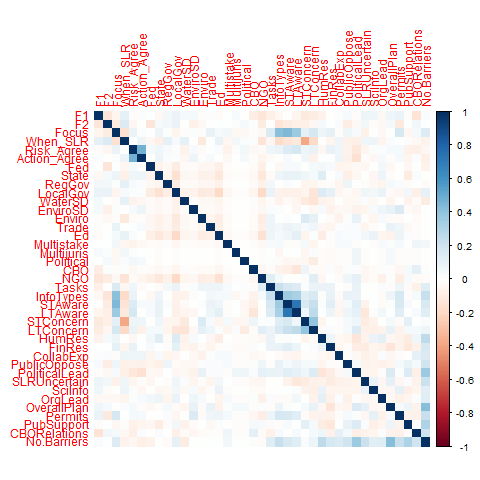
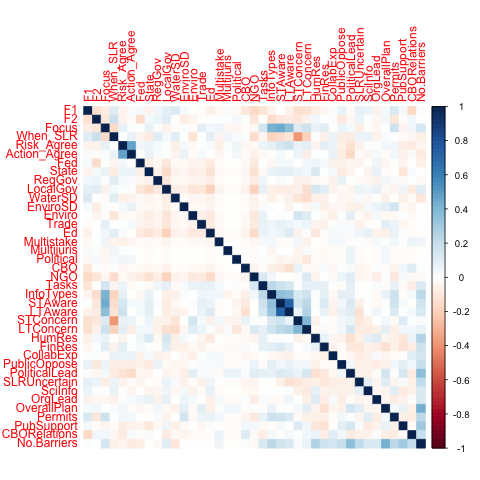
no random intercpets, but added a plot of org tyep by factor location

diff --git a/output/tables/correlation_tests.html b/output/tables/correlation_tests.html
@@ -1,39 +1,39 @@
 
 <table style="text-align:center"><tr><td colspan="4" style="border-bottom: 1px solid black"></td></tr><tr><td style="text-align:left"></td><td>item</td><td>F1</td><td>F2</td></tr>
-<tr><td colspan="4" style="border-bottom: 1px solid black"></td></tr><tr><td style="text-align:left">1</td><td>Q1_Focus</td><td>-0.047</td><td>-0.034</td></tr>
-<tr><td style="text-align:left">2</td><td>Q16_Risk_Agree</td><td>-0.028</td><td>-0.029</td></tr>
-<tr><td style="text-align:left">3</td><td>Q17_Action_Agree</td><td>0.021</td><td>-0.008</td></tr>
-<tr><td style="text-align:left">4</td><td>Q4_Fed</td><td>0000</td><td>-0.095*</td></tr>
-<tr><td style="text-align:left">5</td><td>Q4_State</td><td>-0.027</td><td>0.039</td></tr>
-<tr><td style="text-align:left">6</td><td>Q4_RegGov</td><td>0.047</td><td>0.054</td></tr>
-<tr><td style="text-align:left">7</td><td>Q4_LocalGov</td><td>0.085*</td><td>0.051</td></tr>
-<tr><td style="text-align:left">8</td><td>Q4_WaterSD</td><td>0.056</td><td>-0.01</td></tr>
+<tr><td colspan="4" style="border-bottom: 1px solid black"></td></tr><tr><td style="text-align:left">1</td><td>Q1_Focus</td><td>-0.048</td><td>-0.027</td></tr>
+<tr><td style="text-align:left">2</td><td>Q16_Risk_Agree</td><td>-0.029</td><td>-0.039</td></tr>
+<tr><td style="text-align:left">3</td><td>Q17_Action_Agree</td><td>0.038</td><td>-0.018</td></tr>
+<tr><td style="text-align:left">4</td><td>Q4_Fed</td><td>0.037</td><td>-0.1*</td></tr>
+<tr><td style="text-align:left">5</td><td>Q4_State</td><td>-0.024</td><td>0.031</td></tr>
+<tr><td style="text-align:left">6</td><td>Q4_RegGov</td><td>0.03</td><td>0.059</td></tr>
+<tr><td style="text-align:left">7</td><td>Q4_LocalGov</td><td>0.076*</td><td>0.067*</td></tr>
+<tr><td style="text-align:left">8</td><td>Q4_WaterSD</td><td>0.102*</td><td>-0.014</td></tr>
 <tr><td style="text-align:left">9</td><td>Q4_EnviroSD</td><td>0.029</td><td>-0.063*</td></tr>
-<tr><td style="text-align:left">10</td><td>Q4_Enviro</td><td>-0.017</td><td>-0.03</td></tr>
-<tr><td style="text-align:left">11</td><td>Q4_Trade</td><td>0.003</td><td>0.002</td></tr>
-<tr><td style="text-align:left">12</td><td>Q4_Ed</td><td>-0.03</td><td>0.009</td></tr>
-<tr><td style="text-align:left">13</td><td>Q4_Multistake</td><td>-0.009</td><td>0.005</td></tr>
-<tr><td style="text-align:left">14</td><td>Q4_Multijuris</td><td>0.027</td><td>-0.004</td></tr>
-<tr><td style="text-align:left">15</td><td>Q4_Political</td><td>-0.012</td><td>0.043</td></tr>
-<tr><td style="text-align:left">16</td><td>Q4_CBO</td><td>-0.079*</td><td>0.003</td></tr>
-<tr><td style="text-align:left">17</td><td>Q4_NGO</td><td>-0.128*</td><td>-0.075*</td></tr>
-<tr><td style="text-align:left">18</td><td>Q8_JobTasks</td><td>-0.069*</td><td>0.013</td></tr>
-<tr><td style="text-align:left">19</td><td>Q32_InfoTypes</td><td>-0.033</td><td>-0.07*</td></tr>
-<tr><td style="text-align:left">20</td><td>Q11_STAware</td><td>-0.006</td><td>-0.062*</td></tr>
-<tr><td style="text-align:left">21</td><td>Q11_LTAware</td><td>-0.043</td><td>-0.044</td></tr>
-<tr><td style="text-align:left">22</td><td>Q12_STConcern</td><td>-0.108*</td><td>-0.059*</td></tr>
-<tr><td style="text-align:left">23</td><td>Q12_LTConcern</td><td>-0.101*</td><td>-0.008</td></tr>
-<tr><td style="text-align:left">24</td><td>Q20_HumRes</td><td>-0.041</td><td>0.03</td></tr>
-<tr><td style="text-align:left">25</td><td>Q20_FinRes</td><td>-0.01</td><td>-0.007</td></tr>
-<tr><td style="text-align:left">26</td><td>Q20_ExpCollab</td><td>0.003</td><td>0.011</td></tr>
-<tr><td style="text-align:left">27</td><td>Q20_StakeOpp</td><td>0.018</td><td>-0.067*</td></tr>
-<tr><td style="text-align:left">28</td><td>Q20_PolLead</td><td>-0.021</td><td>-0.03</td></tr>
-<tr><td style="text-align:left">29</td><td>Q20_SLRUncertain</td><td>0.075*</td><td>0.042</td></tr>
-<tr><td style="text-align:left">30</td><td>Q20_SciInfo</td><td>0.061*</td><td>-0.017</td></tr>
-<tr><td style="text-align:left">31</td><td>Q20_OrgLead</td><td>-0.037</td><td>-0.021</td></tr>
-<tr><td style="text-align:left">32</td><td>Q20_OverallPlan</td><td>0.056</td><td>0.059</td></tr>
-<tr><td style="text-align:left">33</td><td>Q20_Permits</td><td>0.08*</td><td>-0.095*</td></tr>
-<tr><td style="text-align:left">34</td><td>Q20_PubSupport</td><td>-0.006</td><td>0.013</td></tr>
-<tr><td style="text-align:left">35</td><td>Q20_CBORelation</td><td>-0.121*</td><td>0.039</td></tr>
-<tr><td style="text-align:left">36</td><td>Q20_Sum</td><td>0.027</td><td>0.008</td></tr>
+<tr><td style="text-align:left">10</td><td>Q4_Enviro</td><td>-0.004</td><td>-0.028</td></tr>
+<tr><td style="text-align:left">11</td><td>Q4_Trade</td><td>-0.013</td><td>0.007</td></tr>
+<tr><td style="text-align:left">12</td><td>Q4_Ed</td><td>-0.058</td><td>0.018</td></tr>
+<tr><td style="text-align:left">13</td><td>Q4_Multistake</td><td>-0.027</td><td>0.008</td></tr>
+<tr><td style="text-align:left">14</td><td>Q4_Multijuris</td><td>0.011</td><td>0.001</td></tr>
+<tr><td style="text-align:left">15</td><td>Q4_Political</td><td>-0.028</td><td>0.04</td></tr>
+<tr><td style="text-align:left">16</td><td>Q4_CBO</td><td>-0.074*</td><td>-0.001</td></tr>
+<tr><td style="text-align:left">17</td><td>Q4_NGO</td><td>-0.127*</td><td>-0.086*</td></tr>
+<tr><td style="text-align:left">18</td><td>Q8_JobTasks</td><td>-0.078*</td><td>0.013</td></tr>
+<tr><td style="text-align:left">19</td><td>Q32_InfoTypes</td><td>-0.026</td><td>-0.072*</td></tr>
+<tr><td style="text-align:left">20</td><td>Q11_STAware</td><td>-0.001</td><td>-0.061*</td></tr>
+<tr><td style="text-align:left">21</td><td>Q11_LTAware</td><td>-0.043</td><td>-0.039</td></tr>
+<tr><td style="text-align:left">22</td><td>Q12_STConcern</td><td>-0.106*</td><td>-0.071*</td></tr>
+<tr><td style="text-align:left">23</td><td>Q12_LTConcern</td><td>-0.11*</td><td>-0.014</td></tr>
+<tr><td style="text-align:left">24</td><td>Q20_HumRes</td><td>-0.046</td><td>0.031</td></tr>
+<tr><td style="text-align:left">25</td><td>Q20_FinRes</td><td>-0.028</td><td>0.002</td></tr>
+<tr><td style="text-align:left">26</td><td>Q20_ExpCollab</td><td>0.007</td><td>0.004</td></tr>
+<tr><td style="text-align:left">27</td><td>Q20_StakeOpp</td><td>0.056</td><td>-0.077*</td></tr>
+<tr><td style="text-align:left">28</td><td>Q20_PolLead</td><td>-0.02</td><td>-0.04</td></tr>
+<tr><td style="text-align:left">29</td><td>Q20_SLRUncertain</td><td>0.067*</td><td>0.051</td></tr>
+<tr><td style="text-align:left">30</td><td>Q20_SciInfo</td><td>0.055</td><td>0.007</td></tr>
+<tr><td style="text-align:left">31</td><td>Q20_OrgLead</td><td>-0.05</td><td>-0.013</td></tr>
+<tr><td style="text-align:left">32</td><td>Q20_OverallPlan</td><td>0.042</td><td>0.067*</td></tr>
+<tr><td style="text-align:left">33</td><td>Q20_Permits</td><td>0.119*</td><td>-0.089*</td></tr>
+<tr><td style="text-align:left">34</td><td>Q20_PubSupport</td><td>0.018</td><td>-0.011</td></tr>
+<tr><td style="text-align:left">35</td><td>Q20_CBORelation</td><td>-0.124*</td><td>0.037</td></tr>
+<tr><td style="text-align:left">36</td><td>Q20_Sum</td><td>0.029</td><td>0.01</td></tr>
 <tr><td colspan="4" style="border-bottom: 1px solid black"></td></tr></table>

diff --git a/output/tables/sem_model_V2_10-7.html b/output/tables/sem_model_V2_10-7.html
@@ -3,40 +3,40 @@
 <tr><td></td><td colspan = '1'; align = 'center'>Estimate</td><td colspan = '1'; align = 'center'>Std. Err.</td><td colspan = '1'; align = 'center'>z</td><td colspan = '1'; align = 'center'>p</td></tr>
 <tr><td></td><td colspan = '4'; align = 'center'><span style="text-decoration: underline;">Factor Loadings</span></td></tr> <tr><td colspan = '1'; align = 'left'><span style="text-decoration: underline;">Engagement</span></td></tr>
 <tr><td>Q32.InfoTypes</td><td>1.00<sup>+</sup></td><td></td><td></td><td></td></tr>
-<tr><td>Q1.Focus</td><td>0.57</td><td>0.06</td><td>9.15</td><td>.000</td></tr>
-<tr><td>When.SLR</td><td>0.17</td><td>0.04</td><td>4.64</td><td>.000</td></tr>
-<tr><td>Q11.STAware</td><td>0.52</td><td>0.05</td><td>11.00</td><td>.000</td></tr>
-<tr><td>Q11.LTAware</td><td>0.49</td><td>0.04</td><td>10.99</td><td>.000</td></tr>
-<tr><td>Q12.LTConcern</td><td>0.14</td><td>0.02</td><td>6.55</td><td>.000</td></tr>
-<tr><td>Q12.STConcern</td><td>0.13</td><td>0.03</td><td>4.51</td><td>.000</td></tr>
+<tr><td>Q1.Focus</td><td>0.57</td><td>0.06</td><td>9.16</td><td>.000</td></tr>
+<tr><td>When.SLR</td><td>0.17</td><td>0.04</td><td>4.66</td><td>.000</td></tr>
+<tr><td>Q11.STAware</td><td>0.52</td><td>0.05</td><td>11.02</td><td>.000</td></tr>
+<tr><td>Q11.LTAware</td><td>0.49</td><td>0.04</td><td>11.00</td><td>.000</td></tr>
+<tr><td>Q12.LTConcern</td><td>0.14</td><td>0.02</td><td>6.56</td><td>.000</td></tr>
+<tr><td>Q12.STConcern</td><td>0.13</td><td>0.03</td><td>4.53</td><td>.000</td></tr>
 <tr><td></td><td colspan = '4'; align = 'center'><span style="text-decoration: underline;">Regression Slopes</span></td></tr> <tr><td colspan = '1'; align = 'left'><span style="text-decoration: underline;">F1</span></td></tr>
-<tr><td>Engagement</td><td>-0.03</td><td>0.03</td><td>-1.01</td><td>.314</td></tr>
-<tr><td>nonprofit</td><td>-0.55</td><td>0.12</td><td>-4.63</td><td>.000</td></tr>
-<tr><td>govagency</td><td>-0.16</td><td>0.11</td><td>-1.37</td><td>.172</td></tr>
-<tr><td>enviro</td><td>-0.22</td><td>0.17</td><td>-1.30</td><td>.194</td></tr>
-<tr><td>othergroup</td><td>-0.13</td><td>0.09</td><td>-1.44</td><td>.150</td></tr>
+<tr><td>Engagement</td><td>-0.02</td><td>0.02</td><td>-1.11</td><td>.265</td></tr>
+<tr><td>nonprofit</td><td>-0.50</td><td>0.09</td><td>-5.70</td><td>.000</td></tr>
+<tr><td>govagency</td><td>-0.15</td><td>0.09</td><td>-1.75</td><td>.081</td></tr>
+<tr><td>enviro</td><td>-0.19</td><td>0.13</td><td>-1.49</td><td>.137</td></tr>
+<tr><td>othergroup</td><td>-0.16</td><td>0.07</td><td>-2.32</td><td>.020</td></tr>
  <tr><td colspan = '1'; align = 'left'><span style="text-decoration: underline;">F2</span></td></tr>
-<tr><td>Engagement</td><td>-0.07</td><td>0.02</td><td>-3.21</td><td>.001</td></tr>
-<tr><td>nonprofit</td><td>-0.23</td><td>0.09</td><td>-2.60</td><td>.009</td></tr>
-<tr><td>govagency</td><td>-0.05</td><td>0.09</td><td>-0.63</td><td>.526</td></tr>
-<tr><td>enviro</td><td>-0.16</td><td>0.13</td><td>-1.23</td><td>.217</td></tr>
-<tr><td>othergroup</td><td>-0.01</td><td>0.07</td><td>-0.08</td><td>.933</td></tr>
+<tr><td>Engagement</td><td>-0.07</td><td>0.02</td><td>-3.23</td><td>.001</td></tr>
+<tr><td>nonprofit</td><td>-0.26</td><td>0.09</td><td>-3.03</td><td>.002</td></tr>
+<tr><td>govagency</td><td>-0.08</td><td>0.08</td><td>-1.02</td><td>.310</td></tr>
+<tr><td>enviro</td><td>-0.18</td><td>0.12</td><td>-1.46</td><td>.145</td></tr>
+<tr><td>othergroup</td><td>-0.03</td><td>0.07</td><td>-0.41</td><td>.680</td></tr>
 <tr><td></td><td colspan = '4'; align = 'center'><span style="text-decoration: underline;">Residual Variances</span></td></tr>
-<tr><td>Q32.InfoTypes</td><td>7.06</td><td>0.39</td><td>17.90</td><td>.000</td></tr>
-<tr><td>Q1.Focus</td><td>1.56</td><td>0.09</td><td>17.50</td><td>.000</td></tr>
-<tr><td>When.SLR</td><td>1.18</td><td>0.06</td><td>18.54</td><td>.000</td></tr>
-<tr><td>Q11.STAware</td><td>0.14</td><td>0.02</td><td>6.98</td><td>.000</td></tr>
-<tr><td>Q11.LTAware</td><td>0.22</td><td>0.02</td><td>10.61</td><td>.000</td></tr>
-<tr><td>Q12.LTConcern</td><td>0.31</td><td>0.02</td><td>18.35</td><td>.000</td></tr>
+<tr><td>Q32.InfoTypes</td><td>7.06</td><td>0.39</td><td>17.89</td><td>.000</td></tr>
+<tr><td>Q1.Focus</td><td>1.56</td><td>0.09</td><td>17.49</td><td>.000</td></tr>
+<tr><td>When.SLR</td><td>1.17</td><td>0.06</td><td>18.54</td><td>.000</td></tr>
+<tr><td>Q11.STAware</td><td>0.14</td><td>0.02</td><td>7.03</td><td>.000</td></tr>
+<tr><td>Q11.LTAware</td><td>0.22</td><td>0.02</td><td>10.62</td><td>.000</td></tr>
+<tr><td>Q12.LTConcern</td><td>0.31</td><td>0.02</td><td>18.34</td><td>.000</td></tr>
 <tr><td>Q12.STConcern</td><td>0.67</td><td>0.04</td><td>18.55</td><td>.000</td></tr>
-<tr><td>F1</td><td>0.89</td><td>0.05</td><td>18.68</td><td>.000</td></tr>
-<tr><td>F2</td><td>0.50</td><td>0.03</td><td>18.62</td><td>.000</td></tr>
+<tr><td>F1</td><td>0.49</td><td>0.03</td><td>18.67</td><td>.000</td></tr>
+<tr><td>F2</td><td>0.46</td><td>0.02</td><td>18.62</td><td>.000</td></tr>
 <tr><td>nonprofit</td><td>0.12<sup>+</sup></td><td></td><td></td><td></td></tr>
 <tr><td>govagency</td><td>0.14<sup>+</sup></td><td></td><td></td><td></td></tr>
 <tr><td>enviro</td><td>0.05<sup>+</sup></td><td></td><td></td><td></td></tr>
 <tr><td>othergroup</td><td>0.24<sup>+</sup></td><td></td><td></td><td></td></tr>
 <tr><td></td><td colspan = '4'; align = 'center'><span style="text-decoration: underline;">Residual Covariances</span></td></tr>
-<tr><td>F1 w/F2</td><td>-0.11</td><td>0.03</td><td>-4.28</td><td>.000</td></tr>
+<tr><td>F1 w/F2</td><td>-0.08</td><td>0.02</td><td>-4.58</td><td>.000</td></tr>
 <tr><td>nonprofit w/govagency</td><td>-0.02<sup>+</sup></td><td></td><td></td><td></td></tr>
 <tr><td>nonprofit w/enviro</td><td>-0.01<sup>+</sup></td><td></td><td></td><td></td></tr>
 <tr><td>nonprofit w/othergroup</td><td>-0.06<sup>+</sup></td><td></td><td></td><td></td></tr>
@@ -44,11 +44,11 @@
 <tr><td>govagency w/othergroup</td><td>-0.07<sup>+</sup></td><td></td><td></td><td></td></tr>
 <tr><td>enviro w/othergroup</td><td>-0.02<sup>+</sup></td><td></td><td></td><td></td></tr>
 <tr><td></td><td colspan = '4'; align = 'center'><span style="text-decoration: underline;">Latent Variances</span></td></tr>
-<tr><td>Engagement</td><td>1.68</td><td>0.30</td><td>5.64</td><td>.000</td></tr>
+<tr><td>Engagement</td><td>1.69</td><td>0.30</td><td>5.65</td><td>.000</td></tr>
 <tr><td></td><td colspan = '4'; align = 'center'><span style="text-decoration: underline;">Fit Indices</span></td></tr>
-<tr><td>&chi;<sup>2</sup></td><td>401.43(54)</td><td></td><td></td><td>.000</td></tr>
-<tr><td>CFI</td><td>0.73</td><td></td><td></td><td></td></tr>
-<tr><td>TLI</td><td>0.64</td><td></td><td></td><td></td></tr>
+<tr><td>&chi;<sup>2</sup></td><td>415.39(54)</td><td></td><td></td><td>.000</td></tr>
+<tr><td>CFI</td><td>0.72</td><td></td><td></td><td></td></tr>
+<tr><td>TLI</td><td>0.63</td><td></td><td></td><td></td></tr>
 <tr><td>RMSEA</td><td>0.10</td><td></td><td></td><td></td></tr>
 <tr><td colspan = '5'; align = 'left'><sup>+</sup>Fixed parameter</td></tr>
 </table><br>

diff --git a/output/tables/sem_model_V1_10-7.html b/output/tables/sem_model_V1_10-7.html
@@ -3,46 +3,46 @@
 <tr><td></td><td colspan = '1'; align = 'center'>Estimate</td><td colspan = '1'; align = 'center'>Std. Err.</td><td colspan = '1'; align = 'center'>z</td><td colspan = '1'; align = 'center'>p</td></tr>
 <tr><td></td><td colspan = '4'; align = 'center'><span style="text-decoration: underline;">Factor Loadings</span></td></tr> <tr><td colspan = '1'; align = 'left'><span style="text-decoration: underline;">Engagement</span></td></tr>
 <tr><td>Q32.InfoTypes</td><td>1.00<sup>+</sup></td><td></td><td></td><td></td></tr>
-<tr><td>Q1.Focus</td><td>0.57</td><td>0.06</td><td>9.15</td><td>.000</td></tr>
-<tr><td>When.SLR</td><td>0.17</td><td>0.04</td><td>4.65</td><td>.000</td></tr>
-<tr><td>Q11.STAware</td><td>0.52</td><td>0.05</td><td>11.00</td><td>.000</td></tr>
-<tr><td>Q11.LTAware</td><td>0.49</td><td>0.04</td><td>10.99</td><td>.000</td></tr>
-<tr><td>Q12.LTConcern</td><td>0.14</td><td>0.02</td><td>6.55</td><td>.000</td></tr>
-<tr><td>Q12.STConcern</td><td>0.13</td><td>0.03</td><td>4.51</td><td>.000</td></tr>
+<tr><td>Q1.Focus</td><td>0.57</td><td>0.06</td><td>9.16</td><td>.000</td></tr>
+<tr><td>When.SLR</td><td>0.17</td><td>0.04</td><td>4.67</td><td>.000</td></tr>
+<tr><td>Q11.STAware</td><td>0.52</td><td>0.05</td><td>11.02</td><td>.000</td></tr>
+<tr><td>Q11.LTAware</td><td>0.49</td><td>0.04</td><td>11.00</td><td>.000</td></tr>
+<tr><td>Q12.LTConcern</td><td>0.14</td><td>0.02</td><td>6.57</td><td>.000</td></tr>
+<tr><td>Q12.STConcern</td><td>0.13</td><td>0.03</td><td>4.53</td><td>.000</td></tr>
 <tr><td></td><td colspan = '4'; align = 'center'><span style="text-decoration: underline;">Regression Slopes</span></td></tr> <tr><td colspan = '1'; align = 'left'><span style="text-decoration: underline;">F1</span></td></tr>
-<tr><td>Engagement</td><td>-0.03</td><td>0.03</td><td>-1.02</td><td>.309</td></tr>
-<tr><td>nonprofit</td><td>-0.55</td><td>0.12</td><td>-4.63</td><td>.000</td></tr>
-<tr><td>govagency</td><td>-0.16</td><td>0.11</td><td>-1.37</td><td>.172</td></tr>
-<tr><td>othergroup.wEnviro</td><td>-0.14</td><td>0.09</td><td>-1.58</td><td>.113</td></tr>
+<tr><td>Engagement</td><td>-0.02</td><td>0.02</td><td>-1.12</td><td>.263</td></tr>
+<tr><td>nonprofit</td><td>-0.50</td><td>0.09</td><td>-5.70</td><td>.000</td></tr>
+<tr><td>govagency</td><td>-0.15</td><td>0.09</td><td>-1.75</td><td>.081</td></tr>
+<tr><td>othergroup.wEnviro</td><td>-0.16</td><td>0.07</td><td>-2.43</td><td>.015</td></tr>
  <tr><td colspan = '1'; align = 'left'><span style="text-decoration: underline;">F2</span></td></tr>
-<tr><td>Engagement</td><td>-0.07</td><td>0.02</td><td>-3.23</td><td>.001</td></tr>
-<tr><td>nonprofit</td><td>-0.23</td><td>0.09</td><td>-2.60</td><td>.009</td></tr>
-<tr><td>govagency</td><td>-0.05</td><td>0.09</td><td>-0.63</td><td>.528</td></tr>
-<tr><td>othergroup.wEnviro</td><td>-0.02</td><td>0.07</td><td>-0.35</td><td>.730</td></tr>
+<tr><td>Engagement</td><td>-0.07</td><td>0.02</td><td>-3.25</td><td>.001</td></tr>
+<tr><td>nonprofit</td><td>-0.26</td><td>0.09</td><td>-3.03</td><td>.002</td></tr>
+<tr><td>govagency</td><td>-0.08</td><td>0.08</td><td>-1.01</td><td>.312</td></tr>
+<tr><td>othergroup.wEnviro</td><td>-0.05</td><td>0.07</td><td>-0.69</td><td>.490</td></tr>
 <tr><td></td><td colspan = '4'; align = 'center'><span style="text-decoration: underline;">Residual Variances</span></td></tr>
-<tr><td>Q32.InfoTypes</td><td>7.06</td><td>0.39</td><td>17.90</td><td>.000</td></tr>
-<tr><td>Q1.Focus</td><td>1.56</td><td>0.09</td><td>17.50</td><td>.000</td></tr>
-<tr><td>When.SLR</td><td>1.18</td><td>0.06</td><td>18.54</td><td>.000</td></tr>
-<tr><td>Q11.STAware</td><td>0.14</td><td>0.02</td><td>6.98</td><td>.000</td></tr>
-<tr><td>Q11.LTAware</td><td>0.22</td><td>0.02</td><td>10.61</td><td>.000</td></tr>
-<tr><td>Q12.LTConcern</td><td>0.31</td><td>0.02</td><td>18.35</td><td>.000</td></tr>
+<tr><td>Q32.InfoTypes</td><td>7.06</td><td>0.39</td><td>17.89</td><td>.000</td></tr>
+<tr><td>Q1.Focus</td><td>1.56</td><td>0.09</td><td>17.49</td><td>.000</td></tr>
+<tr><td>When.SLR</td><td>1.17</td><td>0.06</td><td>18.54</td><td>.000</td></tr>
+<tr><td>Q11.STAware</td><td>0.14</td><td>0.02</td><td>7.03</td><td>.000</td></tr>
+<tr><td>Q11.LTAware</td><td>0.22</td><td>0.02</td><td>10.62</td><td>.000</td></tr>
+<tr><td>Q12.LTConcern</td><td>0.31</td><td>0.02</td><td>18.34</td><td>.000</td></tr>
 <tr><td>Q12.STConcern</td><td>0.67</td><td>0.04</td><td>18.55</td><td>.000</td></tr>
-<tr><td>F1</td><td>0.89</td><td>0.05</td><td>18.68</td><td>.000</td></tr>
-<tr><td>F2</td><td>0.50</td><td>0.03</td><td>18.62</td><td>.000</td></tr>
+<tr><td>F1</td><td>0.49</td><td>0.03</td><td>18.67</td><td>.000</td></tr>
+<tr><td>F2</td><td>0.46</td><td>0.02</td><td>18.62</td><td>.000</td></tr>
 <tr><td>nonprofit</td><td>0.12<sup>+</sup></td><td></td><td></td><td></td></tr>
 <tr><td>govagency</td><td>0.14<sup>+</sup></td><td></td><td></td><td></td></tr>
 <tr><td>othergroup.wEnviro</td><td>0.25<sup>+</sup></td><td></td><td></td><td></td></tr>
 <tr><td></td><td colspan = '4'; align = 'center'><span style="text-decoration: underline;">Residual Covariances</span></td></tr>
-<tr><td>F1 w/F2</td><td>-0.11</td><td>0.03</td><td>-4.26</td><td>.000</td></tr>
+<tr><td>F1 w/F2</td><td>-0.08</td><td>0.02</td><td>-4.57</td><td>.000</td></tr>
 <tr><td>nonprofit w/govagency</td><td>-0.02<sup>+</sup></td><td></td><td></td><td></td></tr>
 <tr><td>nonprofit w/othergroup.wEnviro</td><td>-0.07<sup>+</sup></td><td></td><td></td><td></td></tr>
 <tr><td>govagency w/othergroup.wEnviro</td><td>-0.07<sup>+</sup></td><td></td><td></td><td></td></tr>
 <tr><td></td><td colspan = '4'; align = 'center'><span style="text-decoration: underline;">Latent Variances</span></td></tr>
-<tr><td>Engagement</td><td>1.68</td><td>0.30</td><td>5.64</td><td>.000</td></tr>
+<tr><td>Engagement</td><td>1.69</td><td>0.30</td><td>5.65</td><td>.000</td></tr>
 <tr><td></td><td colspan = '4'; align = 'center'><span style="text-decoration: underline;">Fit Indices</span></td></tr>
-<tr><td>&chi;<sup>2</sup></td><td>377.14(47)</td><td></td><td></td><td>.000</td></tr>
-<tr><td>CFI</td><td>0.74</td><td></td><td></td><td></td></tr>
-<tr><td>TLI</td><td>0.65</td><td></td><td></td><td></td></tr>
+<tr><td>&chi;<sup>2</sup></td><td>391.08(47)</td><td></td><td></td><td>.000</td></tr>
+<tr><td>CFI</td><td>0.73</td><td></td><td></td><td></td></tr>
+<tr><td>TLI</td><td>0.64</td><td></td><td></td><td></td></tr>
 <tr><td>RMSEA</td><td>0.10</td><td></td><td></td><td></td></tr>
 <tr><td colspan = '5'; align = 'left'><sup>+</sup>Fixed parameter</td></tr>
 </table><br>
